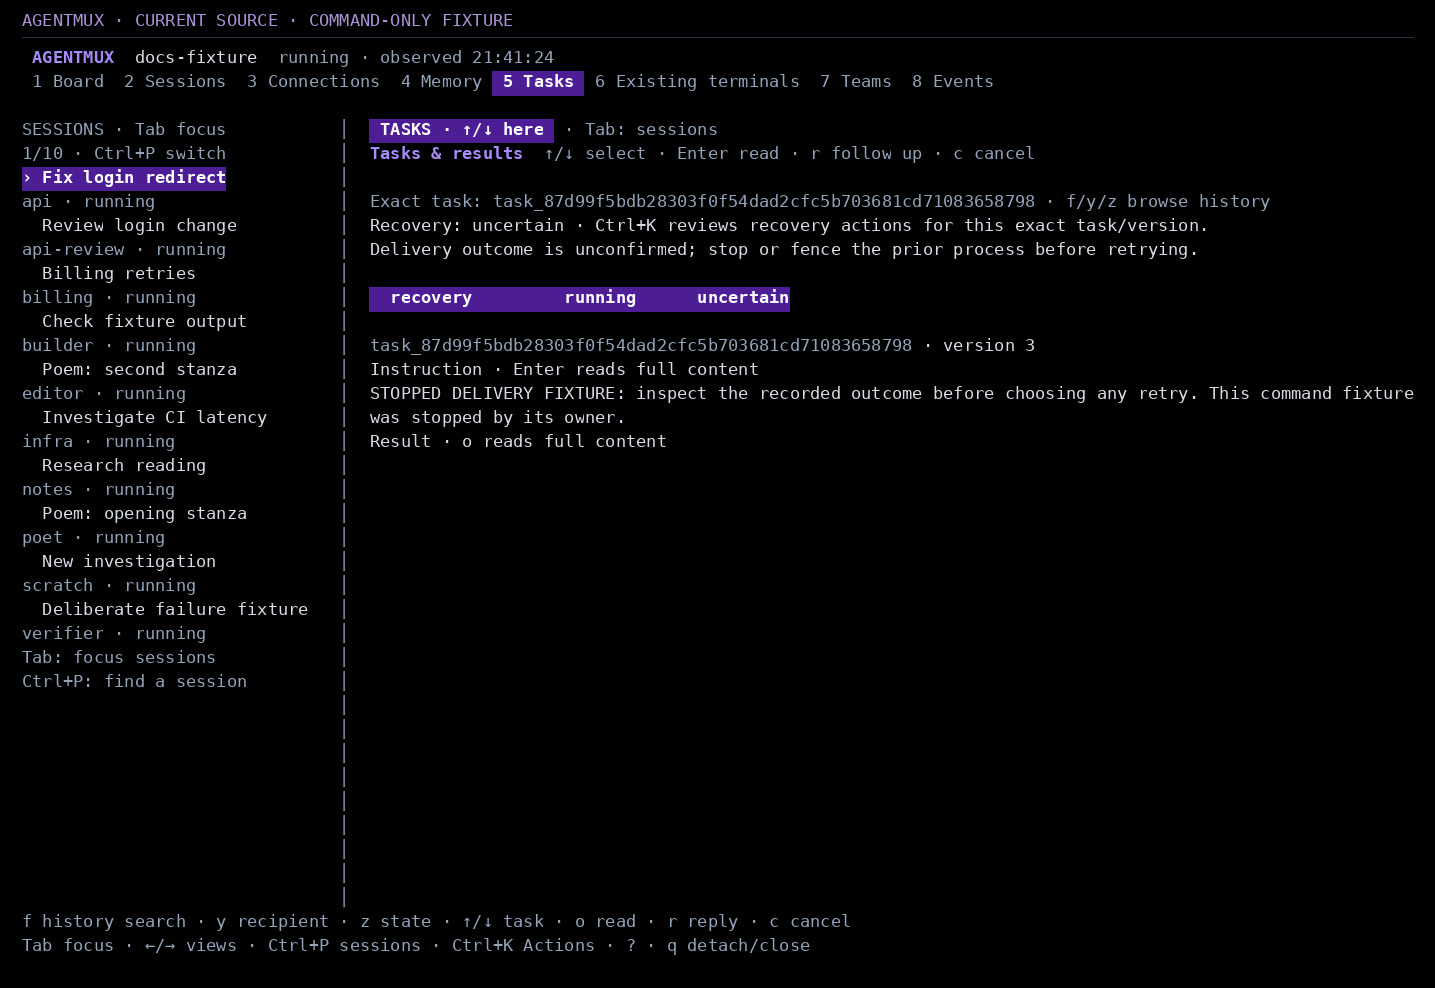
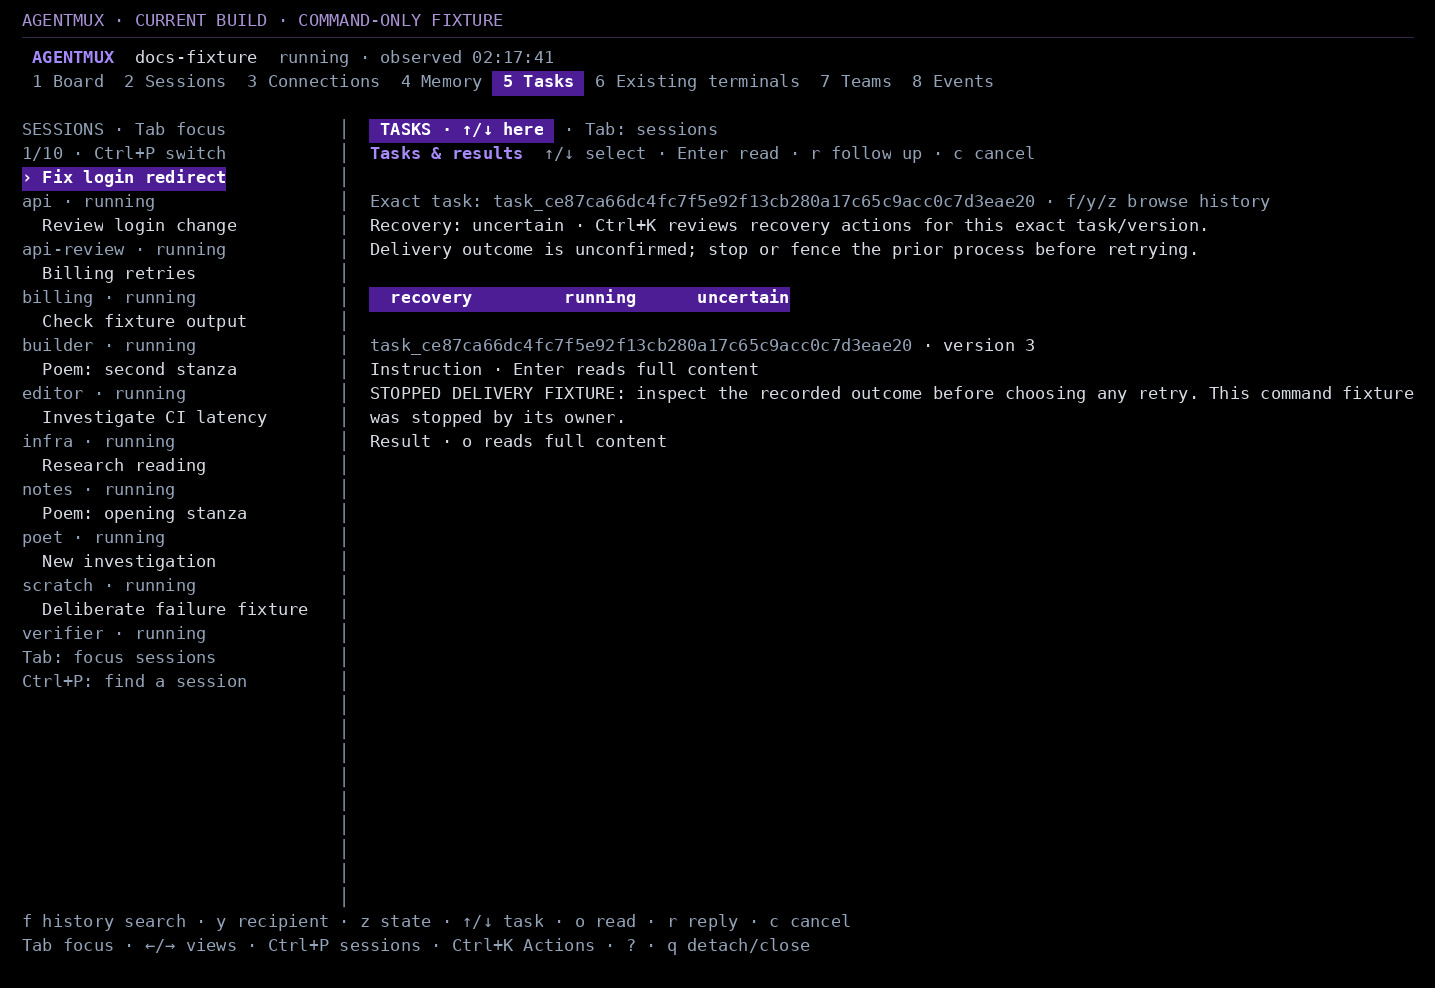
docs: refresh v0.13.0 captures and release guidance

Changed region(s): [[0.3679, 0.1822, 0.7052, 0.2126], [0.3066, 0.334, 0.6439, 0.3644], [0.1533, 0.0, 0.3679, 0.0304]]

diff --git a/docs/visual-guide.md b/docs/visual-guide.md
@@ -18,8 +18,8 @@ installed and authenticated separately. A new installation does not replace
 an existing workspace's pinned controller; use a fresh workspace for all current
 features, or [upgrade deliberately](traces-and-recovery.md).
 
-Screenshots were captured on **2026-11-03** from source **e27b3efc6ff0**,
-using **amx v0.12.0-12-ge27b3ef**, in disposable command-only workspaces and a scripted research trial with explicitly
+Screenshots were captured on **2026-11-04** from source **0fca686e0f2f**,
+using **amx 0.13.0**, in disposable command-only workspaces and a scripted research trial with explicitly
 trusted local execution. They show real current controls; they measure neither
 model quality nor isolation. Terminal images render live tmux captures with
 trailing empty rows cropped. [Capture provenance](assets/guide/capture-provenance.json)
@@ -54,7 +54,7 @@ and private result location. It starts no models and creates no run files.
 Replace `go test ./...` with the executable and arguments that verify your task.
 The text after `--` is literal argv; use an owner-maintained script for shell logic.
 
-[![Actual offline report from amx demo with retained check evidence and a reviewable change](assets/guide/checked-work-report.jpg?v=c1d8bad75eaf)](assets/guide/checked-work-report.jpg?v=c1d8bad75eaf)
+[![Actual offline report from amx demo with retained check evidence and a reviewable change](assets/guide/checked-work-report.jpg?v=9e8c23859bf8)](assets/guide/checked-work-report.jpg?v=9e8c23859bf8)
 
 This is a real report from the deterministic `amx demo` fixture, with no model
 calls. The practical sequence for your own task is **preview → run → inspect →
@@ -130,7 +130,7 @@ for strict plan fields, isolated execution and exact saved-brief delivery.
 
 ## Navigate the terminal and web app
 
-[![Terminal workbench with session identities on the left and coordination on the right](assets/guide/terminal-board.jpg?v=700ca1afed6d)](assets/guide/terminal-board.jpg?v=700ca1afed6d)
+[![Terminal workbench with session identities on the left and coordination on the right](assets/guide/terminal-board.jpg?v=1fee273e42f0)](assets/guide/terminal-board.jpg?v=1fee273e42f0)
 
 The left column selects a **session**. **Tab** moves focus between the sidebar
 and content; the focused header is purple. Its task title can change; its Agentmux
@@ -158,13 +158,13 @@ draft; cancel or save it before using workbench navigation. The footer always
 describes the current context. In **Connections**, the sidebar chooses the sender. Tab focuses recipients;
 Up/Down, **h/l** or **Alt+Left/Right** chooses one. Left/Right still changes views.
 
-[![Searchable terminal session switcher distinguishes two poem sessions by title and stable ID](assets/guide/terminal-switcher.jpg?v=a4196e45fd47)](assets/guide/terminal-switcher.jpg?v=a4196e45fd47)
+[![Searchable terminal session switcher distinguishes two poem sessions by title and stable ID](assets/guide/terminal-switcher.jpg?v=a7fb991ec145)](assets/guide/terminal-switcher.jpg?v=a7fb991ec145)
 
 Search results show titles, IDs, projects and providers. **Enter** opens a
 workspace-owned native terminal; an external observation opens its details.
 **Tab** keeps you in the current workbench view and changes its selected session.
 
-[![Searchable Actions menu with shortcuts and exact session targets](assets/guide/terminal-actions.jpg?v=5a2925892849)](assets/guide/terminal-actions.jpg?v=5a2925892849)
+[![Searchable Actions menu with shortcuts and exact session targets](assets/guide/terminal-actions.jpg?v=dc534792a142)](assets/guide/terminal-actions.jpg?v=dc534792a142)
 
 Use **Ctrl+K** when unsure what to press. Actions opens the appropriate editor
 or review, with the target and unavailable reasons shown before a change.
@@ -178,7 +178,7 @@ Open the web control center with:
 amx web -s daily --open
 ```
 
-[![Web board filtered to a specific collaboration pair](assets/guide/web-board.jpg?v=03378b199466)](assets/guide/web-board.jpg?v=03378b199466)
+[![Web board filtered to a specific collaboration pair](assets/guide/web-board.jpg?v=1d865859912c)](assets/guide/web-board.jpg?v=1d865859912c)
 
 The web sidebar selects a session; the main tabs expose its controls and the
 workspace's records. **Board** filters communication, **Connections** controls
@@ -283,7 +283,7 @@ amx board "The API proposal is ready." --group GROUP_ID -s daily
 amx send api-review "Read the proposal when useful." --mode note -s daily
 ```
 
-[![Owner collaboration groups show exact members board and memory namespaces and group controls](assets/guide/web-groups.jpg?v=97a75605ae57)](assets/guide/web-groups.jpg?v=97a75605ae57)
+[![Owner collaboration groups show exact members board and memory namespaces and group controls](assets/guide/web-groups.jpg?v=cf97095a2178)](assets/guide/web-groups.jpg?v=cf97095a2178)
 
 A board post is visible to that board's authorized readers. A direct note has
 explicit recipients. An everyone-readable board is possible when configured
@@ -293,9 +293,9 @@ overlapping membership when testing independent information boundaries.
 In web Board, choose **Shared boards**, select the exact board and click
 **Search** to apply that scope.
 
-[![Terminal Connections view labels sender and recipient and explains note ping and command permissions](assets/guide/terminal-connections.jpg?v=19f9bf67dcd7)](assets/guide/terminal-connections.jpg?v=19f9bf67dcd7)
+[![Terminal Connections view labels sender and recipient and explains note ping and command permissions](assets/guide/terminal-connections.jpg?v=872aca32fed2)](assets/guide/terminal-connections.jpg?v=872aca32fed2)
 
-[![Web relationship graph with directional permission and receiver-delivery explanations](assets/guide/web-connections.jpg?v=eeed7487c335)](assets/guide/web-connections.jpg?v=eeed7487c335)
+[![Web relationship graph with directional permission and receiver-delivery explanations](assets/guide/web-connections.jpg?v=0e6134c1ca54)](assets/guide/web-connections.jpg?v=0e6134c1ca54)
 
 Use **Connections → List view** to search an exact pair when the graph is busy;
 the list pages 50 entries at a time and supports arrows and Enter. Inspect the
@@ -410,7 +410,7 @@ workspace's owned processes and retains their saved data.
 
 ## Private and shared memory
 
-[![Shared memory editor shows the selected pair namespace an agreed plan and its version](assets/guide/web-memory.jpg?v=11b7bbbabec6)](assets/guide/web-memory.jpg?v=11b7bbbabec6)
+[![Shared memory editor shows the selected pair namespace an agreed plan and its version](assets/guide/web-memory.jpg?v=60ca91219e5e)](assets/guide/web-memory.jpg?v=60ca91219e5e)
 
 Private memory belongs to one authenticated agent. Shared memory belongs to an
 explicit namespace with separate read/write access. Neither is an automatic
@@ -461,7 +461,7 @@ v0.13.0 prints a copyable open command after `amx task TASK_ID`:
 amx task TASK_ID --open -s daily
 ```
 
-[![Terminal Tasks view pinned to one exact task with its version, evidence and recovery controls](assets/guide/terminal-task-recovery.jpg?v=bc376d44765b)](assets/guide/terminal-task-recovery.jpg?v=bc376d44765b)
+[![Terminal Tasks view pinned to one exact task with its version, evidence and recovery controls](assets/guide/terminal-task-recovery.jpg?v=dbaaea1ab1ad)](assets/guide/terminal-task-recovery.jpg?v=dbaaea1ab1ad)
 
 The view reads that exact record, including older tasks and retired recipients;
 it never substitutes a newer task that mentions the ID. Inspect the instruction,
@@ -470,7 +470,7 @@ each action reviews the exact task/version before confirmation. Opening the
 view does not retry or resolve anything. Check the prior process and side
 effects before choosing retry.
 
-[![Web Tasks opened for a selected session with exact recipient filtering and retained history](assets/guide/web-session-tasks.jpg?v=7311f1fd11d9)](assets/guide/web-session-tasks.jpg?v=7311f1fd11d9)
+[![Web Tasks opened for a selected session with exact recipient filtering and retained history](assets/guide/web-session-tasks.jpg?v=9efe08dbe0c7)](assets/guide/web-session-tasks.jpg?v=9efe08dbe0c7)
 
 In terminal or web Actions, **Tasks for selected session** goes directly to a
 recipient's retained history. Web attention rows also have **Inspect tasks**,
@@ -506,7 +506,7 @@ Set finite turn, hop, backlog, concurrency and runtime limits. A message-trigger
 observation is attributed data, not a new owner instruction. See
 [persistent workflows](autonomous-workflows.md) for the configuration.
 
-[![Tasks view shows complete retained counts and attention for pending and failed deliveries](assets/guide/web-tasks.jpg?v=2022f6999497)](assets/guide/web-tasks.jpg?v=2022f6999497)
+[![Tasks view shows complete retained counts and attention for pending and failed deliveries](assets/guide/web-tasks.jpg?v=ac69b633c2e5)](assets/guide/web-tasks.jpg?v=ac69b633c2e5)
 
 Observe **Tasks** for complete retained counts, attention filters, exact
 recipients, results and adapter evidence. Search or load older pages rather than
@@ -516,7 +516,7 @@ an already running task separately.
 
 ## Dynamic teams and recruitment
 
-[![Consented team details show its creator current members effective access and membership version](assets/guide/web-teams.jpg?v=81a9baf834f6)](assets/guide/web-teams.jpg?v=81a9baf834f6)
+[![Consented team details show its creator current members effective access and membership version](assets/guide/web-teams.jpg?v=f72d92ace130)](assets/guide/web-teams.jpg?v=f72d92ace130)
 
 Two mechanisms serve different purposes:
 
@@ -600,7 +600,7 @@ For slower exploration, make a separate manifest and team with explicitly larger
 trial, phase and runtime limits; use a new output path. Pausing does not extend
 any of those deadlines.
 
-[![Live research console shows one completed coordination phase a paused decision boundary and reasoned intervention controls](assets/guide/web-research.jpg?v=68aabec8c68b)](assets/guide/web-research.jpg?v=68aabec8c68b)
+[![Live research console shows one completed coordination phase a paused decision boundary and reasoned intervention controls](assets/guide/web-research.jpg?v=5fa82a1d3f65)](assets/guide/web-research.jpg?v=5fa82a1d3f65)
 
 The research screenshots show a one-condition demo. The bundled public-goods
 smoke plans six trials across its conditions and seeds.
@@ -626,7 +626,7 @@ a live pause, not a terminated runner. `--start-paused` pauses every new attempt
 it also takes precedence over a carried unused step. Deadlines and budgets keep
 counting while paused.
 
-[![Research intervention form requires an action reason and review before applying](assets/guide/web-research-control.jpg?v=6ec291d5ed1c)](assets/guide/web-research-control.jpg?v=6ec291d5ed1c)
+[![Research intervention form requires an action reason and review before applying](assets/guide/web-research-control.jpg?v=c3f12cf403fc)](assets/guide/web-research-control.jpg?v=c3f12cf403fc)
 
 ### Design cooperation and competition comparisons
 
@@ -658,7 +658,7 @@ count, declare preregistration and a positive model-task budget, then explicitly
 use `--allow-models`. Supported limits count admissions or native tasks, not a
 hard external dollar cap. See [research design and analysis](research.md).
 
-[![A scripted research team contains Alice and Bob while Charlie remains outside it](assets/guide/web-research-teams.jpg?v=85c155b1be01)](assets/guide/web-research-teams.jpg?v=85c155b1be01)
+[![A scripted research team contains Alice and Bob while Charlie remains outside it](assets/guide/web-research-teams.jpg?v=cbde20a18a16)](assets/guide/web-research-teams.jpg?v=cbde20a18a16)
 
 The demo above exercises actual invitation, acceptance and namespace access.
 Its Alice/Bob coalition is scripted; measuring model self-organization requires

diff --git a/docs/observability.md b/docs/observability.md
@@ -22,7 +22,7 @@ running controller. An older controller can report this operation as unsupported
 `observer_version` and the pinned controller path separately; installing a new
 observer does not prove that an existing workspace upgraded its controller.
 
-![Actual amx observe output showing capacity, uncertain delivery and a live command-worker check-in](assets/guide/terminal-observability.jpg?v=0c1af4e27808)
+![Actual amx observe output showing capacity, uncertain delivery and a live command-worker check-in](assets/guide/terminal-observability.jpg?v=d9ac7487da7c)
 
 The capture uses disposable command-only fixtures. The running worker reports a
 check-in and zero native model events; stopped delivery remains uncertain.
@@ -114,6 +114,11 @@ available; inspect `attention_more`, `active_more` and `native_more` for bounded
 inventories. The top-level collection time, broker snapshot time, worker
 check-in, native event time and readiness time describe different observations.
 They are not one atomic snapshot of every process.
+
+These metadata snapshots and JSONL are the supported integration surface.
+Agentmux has no bundled OTLP/Prometheus exporter or cross-workspace trend
+database. Preserve sample timestamps, `complete` and component errors in any
+external aggregation; unavailable samples do not mean zero work.
 
 The native inventory is a fast reporting/receipt summary. It deliberately does
 not evaluate all queued admission candidates; `native[].pending_count` is

diff --git a/README.md b/README.md
@@ -47,7 +47,7 @@ reviews, deadlines and recovery. Each run retains private Git evidence;
 filesystem and network isolation require the explicit
 [Linux isolation option](docs/workflows.md#private-storage-and-full-isolation).
 
-[![Actual checked-result report from a model-free fixture, showing retained checks and a reviewable patch](docs/assets/guide/checked-work-report.jpg?v=c1d8bad75eaf)](docs/visual-guide.md#ask-for-a-checked-coding-change)
+[![Actual checked-result report from a model-free fixture, showing retained checks and a reviewable patch](docs/assets/guide/checked-work-report.jpg?v=9e8c23859bf8)](docs/visual-guide.md#ask-for-a-checked-coding-change)
 
 The report above comes from a command-only fixture. It demonstrates the evidence
 and application controls; it does not measure provider task quality.
@@ -81,7 +81,7 @@ compatible repo-local Go toolchain when available. See
 [installation](docs/getting-started/installation.md) for binary releases and PATH
 setup. Remote `go install …@latest` is currently unsupported by this module.
 
-Current `main` adds workspace targeting with `amx context`, exact task opening
+v0.13.0 includes workspace targeting with `amx context`, exact task opening
 with `amx task ID --open`, searchable workspace selection and direct session
 task history. `amx observe` brings broker availability, observed worker state,
 live reporting and retained task attention into one read-only view; `--watch --json`

diff --git a/docs/work-sessions.md b/docs/work-sessions.md
@@ -218,7 +218,7 @@ instructions, results or IDs; an empty search clears the filter. Web Tasks offer
 search, recipient/state filters and Load older. These pages do not include human
 turns typed only into a native provider's own conversation UI.
 
-Current source builds also expose direct CLI inspection:
+v0.13.0 also exposes direct CLI inspection:
 
 ```sh
 amx tasks --to codex --query "login" --limit 25 --session billing
@@ -579,7 +579,7 @@ apply to configured agents and owner-added native/bridged sessions. The graph
 displays at most 40 active agents, keeping selected identities visible; the roster
 reads every broker registry page. Recent activity snapshots are bounded to 40
 records per category; Board, Events and Tasks separately search/page retained
-broker history. Current source Actions opens the selected session's task history,
+broker history. Actions opens the selected session's task history,
 and attention rows offer **Inspect tasks** for historical recipients too. Copy
 the attach command or focus an existing tmux window for native
 input. Terminal emulation remains in tmux.

diff --git a/docs/managed-runtime.md b/docs/managed-runtime.md
@@ -180,7 +180,7 @@ Roles describe responsibilities. They grant no authority. Policy defaults to den
 
 `board.post`, `message.send`, `ping.send` and `instruct` accept optional `reply_to` for a visible message or instruction task. The broker derives `thread_id`; callers cannot choose a root. A board reply retains the original board, while each direct recipient must already be able to read the referenced message. A reply adds no authority or ancestor access. `task.list` supports `state`, `to`, `query`, `order`, `after` and `limit`, with a returned `has_more` flag; use `task.get` for an exact task. Native provider-only chat turns are outside this broker history.
 
-Current source workers publish metadata-only check-ins while a task is leased.
+v0.13.0 workers publish metadata-only check-ins while a task is leased.
 `task.observe` does not change task state/version, renew a lease, consume a
 durable request receipt or prove model activity. Worker check-in and native
 event times are set separately by the broker. Owner task reads may include this

diff --git a/docs/working.md b/docs/working.md
@@ -10,7 +10,7 @@ Available in [Agentmux v0.13.0](getting-started/installation.md). To inspect a
 checked fixture before configuring providers, start with
 [`amx demo`](getting-started/first-result.md).
 
-[![Actual offline report from the model-free demo, showing saved checks and the retained change](assets/guide/checked-work-report.jpg?v=c1d8bad75eaf)](getting-started/first-result.md)
+[![Actual offline report from the model-free demo, showing saved checks and the retained change](assets/guide/checked-work-report.jpg?v=9e8c23859bf8)](getting-started/first-result.md)
 
 The report above comes from `amx demo`, a deterministic fixture with no model
 calls. For your own task, the daily sequence is:
